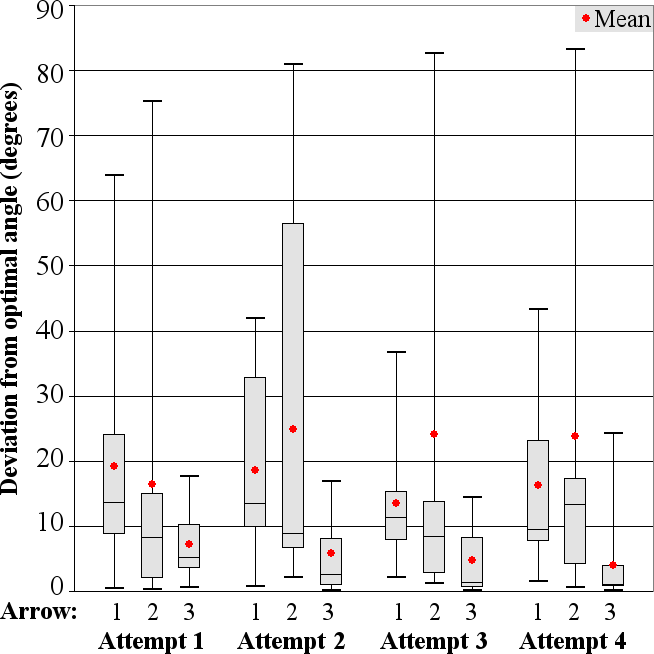
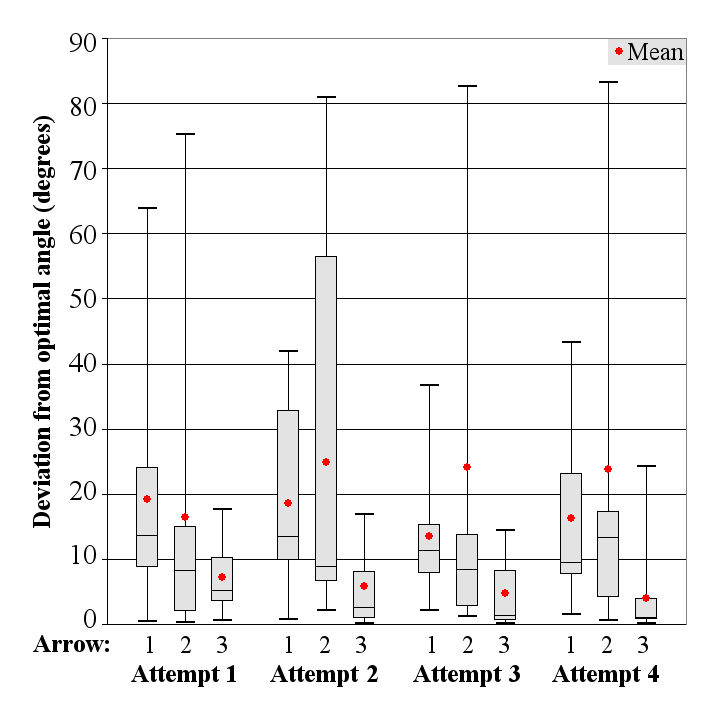
Image Improvements.
Changed graphs to be consistent. Fixed borders and widths on the rest.

diff --git a/hccis2017.tex b/hccis2017.tex
@@ -442,7 +442,7 @@ The technique requires users to draw three arrows which relate to the locations 
 \begin{figure}[h]
    \centering
    \caption{Values used to calculate an interface's orientation.}
-   \includegraphics[width=0.4\textwidth]{figures/orientation_maths.png}
+   \includegraphics[width=0.6\textwidth]{figures/orientation_maths.png}
    \label{fig:orienTrig}
 \end{figure}
 
@@ -456,7 +456,7 @@ This can then be used in calculating the interface's physical position.
 \begin{figure}[h]
    \centering
    \caption{Calculation of a interface's location.}
-   \includegraphics[width=0.475\textwidth]{figures/trig-illustration.png}
+   \includegraphics[width=0.75\textwidth]{figures/trig-illustration.png}
    \label{fig:trig}
 \end{figure}
 
@@ -596,7 +596,7 @@ All the participants were right-handed males who used computers daily and had at
 \begin{figure}[h]
    \centering
    \caption{A scatter graph showing the correlation between the average inaccuracy of a participant's input into the technique and the error of the corresponding result.}
-   \includegraphics[width=0.6\textwidth]{figures/angle_deviation_scatter.png}
+   \includegraphics[width=0.95\textwidth]{figures/angle_deviation_scatter.png}
    \label{fig:scatterAverage}
 \end{figure}
 
@@ -608,7 +608,7 @@ As noted on the graph there is a set of outlying data which does not conform to 
 \begin{figure}[h]
    \centering
    \caption{A box plot graph showing the inaccuracy of participants against the number of times they have performed the technique.}
-   \includegraphics[width=0.6\textwidth]{figures/angle_deviation_boxplots.png}
+   \includegraphics[width=0.75\textwidth]{figures/angle_deviation_boxplots.png}
    \label{fig:boxPlot}
 \end{figure}
 
@@ -628,16 +628,16 @@ The data outside this subset of results implies that there is a proportional rel
 However, these outlying results represent instances where a participant has been relatively inaccurate in comparison to other executions of the technique but a position with little deviation from the interface's actual position has been calculated.
 This implies that the relationship between a user's inaccuracies and the error of the technique's result is more complex than hypothesis 1 states.
 
-\begin{figure}[h] % TODO Change to scatter plot with trendlines plotting deviations in each user-angles against deviation from actual positions.
+\begin{figure}[h]
    \centering
    \caption{A scatter graph showing the correlation between the specific inaccuracies of a participant's input into the technique and the error of the corresponding result.}
-   \includegraphics[width=0.9\textwidth]{figures/total_deviation_vs_angle_deviations.png}
+   \includegraphics[width=0.95\textwidth]{figures/total_deviation_vs_angle_deviations.png}
    \label{fig:scatterIndividual}
 \end{figure}
 
 It is possible that one of the arrows used by the technique as an input has a greater influence over the result than the others.
 The points in the graph shown in Figure~\ref{fig:scatterIndividual} represent deviation of individual participant drawn arrows from their corresponding optimums for all 52 instances of the technique being performed.
-The graph highlights the general trend of participant's total inaccuracy increasing with the error of the result.
+The graph highlights the general trend of participant's total inaccuracy increasing with the error of the result (ignoring the outliers previously discussed).
 If any particular arrow input into the technique has a greater influence than the others then a relationship between the inaccuracies of the arrow and the result would be apparent.
 For example, if arrow 1 had a significantly greater influence than arrows 2 and 3 then a correlation between the size of the participant inaccuracies when drawing this arrow and the magnitude of the error in the technique's result would be apparent.
 However, no relation between the inaccuracy for a single arrow and the error of the technique's result is apparent in these results.
